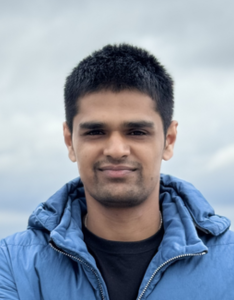
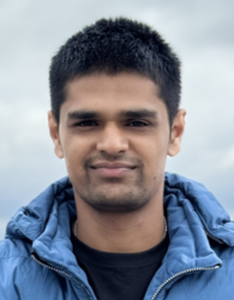
minor updates to figures and their size

diff --git a/people.html b/people.html
@@ -164,7 +164,7 @@
 <tbody>
 <tr>
   <td class="lab-member-cell" width="33%">
-    <img src="assets/images/Sebastian_1.jpg" style="max-width:100%;" alt="Sebastian Roener" />
+    <img src="assets/images/Sebastian_1.png" style="max-width:100%;" alt="Sebastian Roener" />
   </td>
   <td class="lab-member-cell" width="67%">
     <br />
